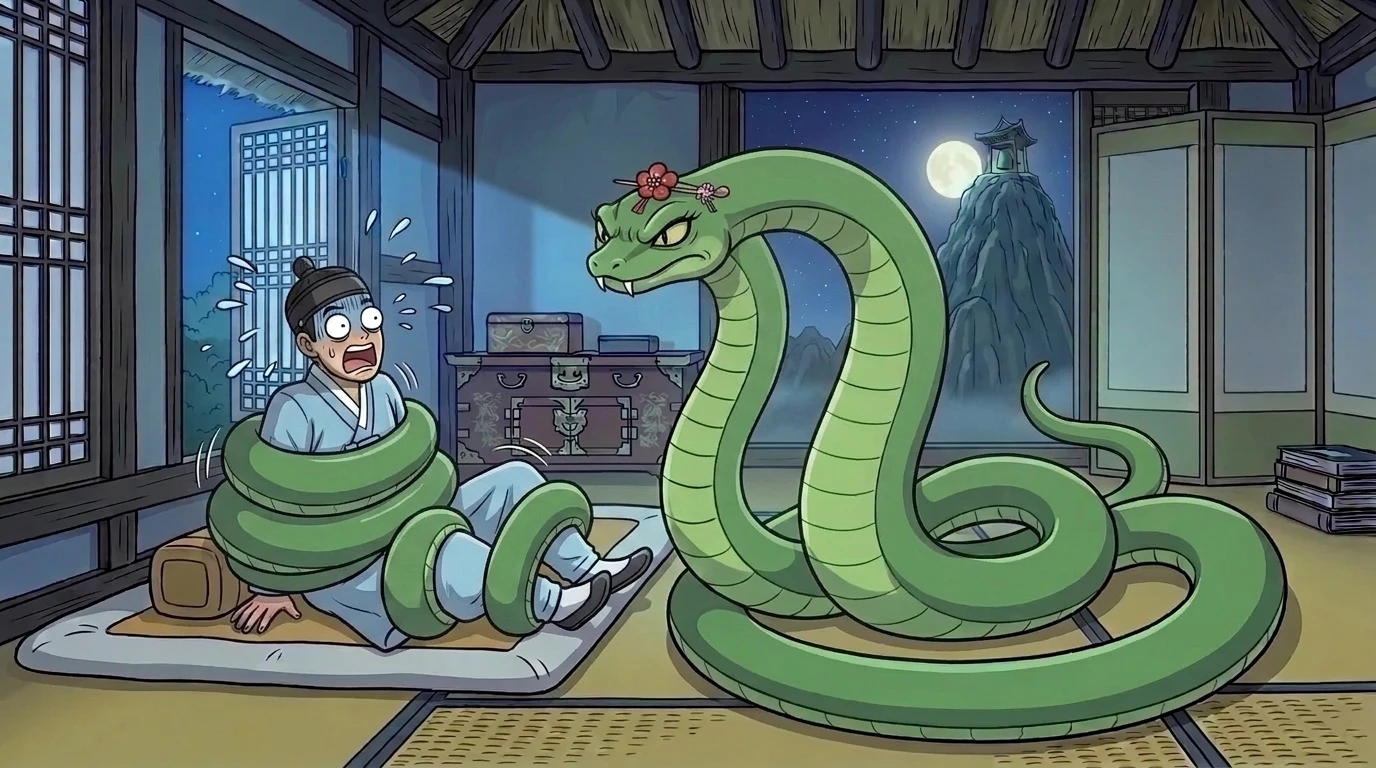
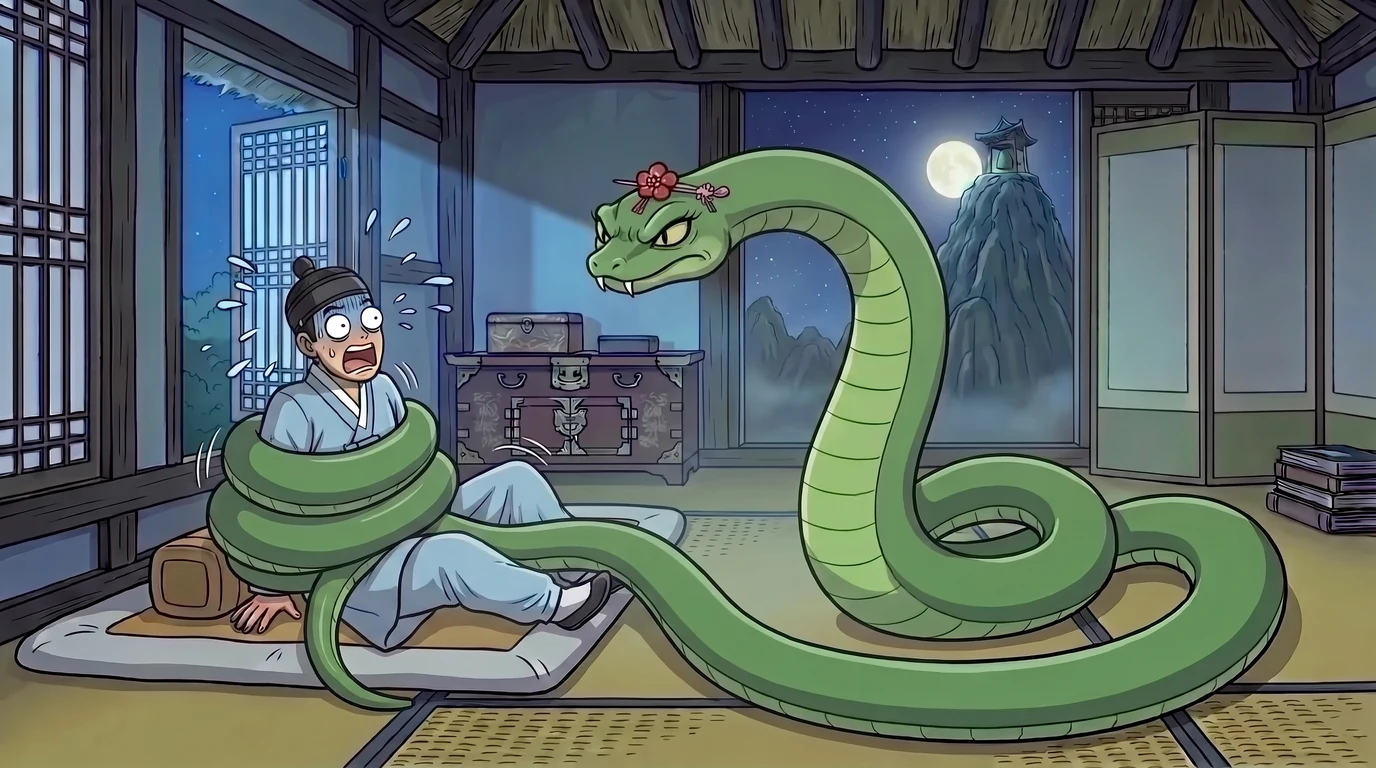
은혜 갚은 까치 12·14쪽 그림 — 구렁이가 한 몸이 되었다
목이 두 가닥으로 갈라지고 선비를 감은 토막이 몸통과 끊겨 있던 그림을
다시 그렸다. 이제 머리부터 꼬리까지 한 줄로 이어진다.

14쪽은 여인의 흰 치마 아래가 구렁이 몸으로 이어지게 그려졌다. 글에서는
「분명 문을 열어 주던 그 여인의 목소리였습니다」로만 알려 주는 것을
그림이 한눈에 보여 준다. 지시문에도 그렇게 적어 두었다. 창밖 절 지붕에
까치 두 마리를 앉혀 둔 것도 뒤에 종을 칠 그 둘이라 그대로 살렸다.
선비의 탕건도 12·14쪽이 같아졌다.

내려받은 2752x1536 원본을 이 책 규격인 1376x768 webp로 줄여 넣었다.

diff --git a/learning/literacy-numeracy/story-books/korea-tales/eunhye-kkachi/IMAGE-PROMPTS.md b/learning/literacy-numeracy/story-books/korea-tales/eunhye-kkachi/IMAGE-PROMPTS.md
@@ -183,11 +183,6 @@ ridgeline. Lonely and a little eerie.
 
 ### `05-coil.webp` — 몸을 감은 구렁이
 
-> **이 그림은 다시 그려야 합니다.** 글이 아니라 그림이 어긋난 자리입니다.
-> 지금 그림은 구렁이 **목이 두 가닥으로 갈라져** 있고, 선비를 감은 토막이
-> 큰 구렁이 몸과 **이어져 있지 않습니다.** 아래 지시문의 대문자 부분을
-> 꼭 지켜 주세요.
-
 ```
 Wide interior of a dim Korean room at night, seen from the side. The scholar lies
 on a sleeping mat on the right, eyes wide open in shock, arms pinned, as the huge
@@ -202,11 +197,13 @@ realistic. Tense but not frightening.
 ### `06-revenge.webp` — 낮의 그 여인
 
 ```
-Wide interior of the same room. On the right, the snake's large head rises beside
-the scholar, calm rather than snarling, eyes steady. On the left, half in shadow
-near the door, the pale woman in white hanbok stands with her back partly turned,
-long black hair down, speaking quietly. The scholar looks between them, face
-drained. Cool blue moonlight, still and quiet.
+Wide interior of the same room, the scholar still wound in the coils on the left.
+On the right the snake's large head rises, calm rather than snarling, eyes steady
+— and THE WOMAN GROWS OUT OF THE SAME BODY: her white hanbok skirt fades down into
+the green coils, so a child can see at a glance that the woman and the snake are
+one creature. She stands beside the head, long black hair down, pointing at him.
+On the temple roof through the window, two magpies are already perched. The
+scholar's face is drained. Cool blue moonlight, still and quiet.
 ```
 
 ### `07-bell.webp` — 종을 치라는 조건
